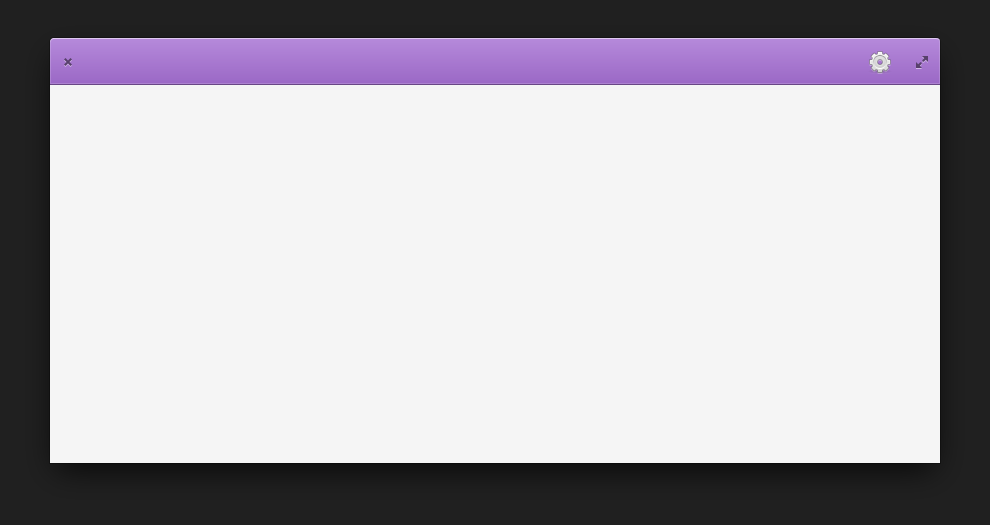
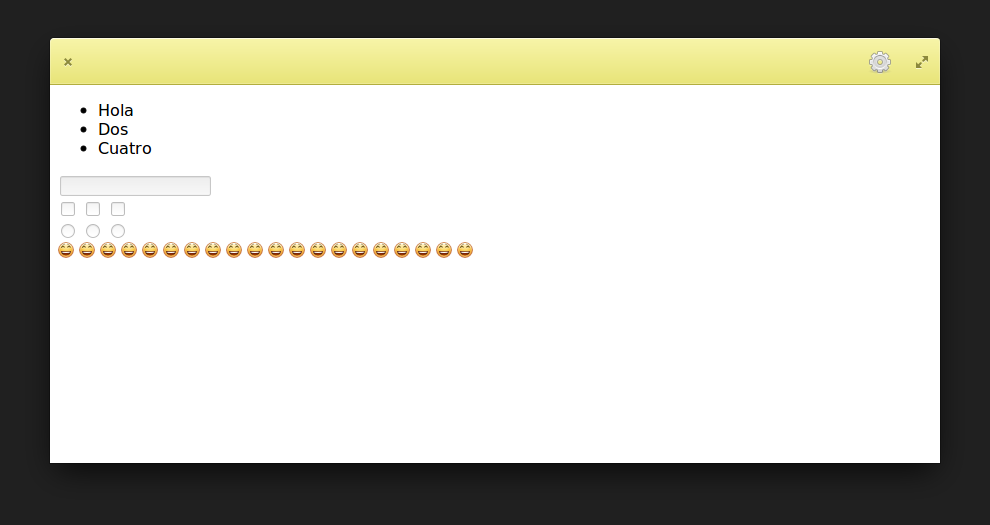
Web view

Changed region(s): [[0.0303, 0.061, 0.9697, 0.3048], [0.0606, 0.4267, 0.4848, 0.4876], [0.0606, 0.3657, 0.1212, 0.3962]]

diff --git a/src/choral/assets/directory.html b/src/choral/assets/directory.html
@@ -1,0 +1,57 @@
+<!DOCTYPE html>
+<html>
+<head>
+  <meta charset="utf-8">
+  <meta http-equiv="X-UA-Compatible" content="IE=edge">
+  <title></title>
+  <link rel="stylesheet" href="choral:///css/directory.css">
+</head>
+<body>
+<ul>
+  <li>Hola</li>
+  <li>Dos</li>
+  <li>Cuatro</li>
+</ul>
+
+<input type="text" name="" value="" placeholder="">
+
+<br>
+
+<input type="checkbox" name="" value="" placeholder="">
+<input type="checkbox" name="" value="" placeholder="">
+<input type="checkbox" name="" value="" placeholder="">
+
+<br>
+
+<input type="radio" name="" value="" placeholder="">
+<input type="radio" name="" value="" placeholder="">
+<input type="radio" name="" value="" placeholder="">
+
+<br>
+
+<img src="choral:///img/smile.png" alt="">
+<img src="choral:///img/smile.png" alt="">
+<img src="choral:///img/smile.png" alt="">
+<img src="choral:///img/smile.png" alt="">
+<img src="choral:///img/smile.png" alt="">
+
+<img src="choral:///img/smile.png" alt="">
+<img src="choral:///img/smile.png" alt="">
+<img src="choral:///img/smile.png" alt="">
+<img src="choral:///img/smile.png" alt="">
+<img src="choral:///img/smile.png" alt="">
+
+<img src="choral:///img/smile.png" alt="">
+<img src="choral:///img/smile.png" alt="">
+<img src="choral:///img/smile.png" alt="">
+<img src="choral:///img/smile.png" alt="">
+<img src="choral:///img/smile.png" alt="">
+
+<img src="choral:///img/smile.png" alt="">
+<img src="choral:///img/smile.png" alt="">
+<img src="choral:///img/smile.png" alt="">
+<img src="choral:///img/smile.png" alt="">
+<img src="choral:///img/smile.png" alt="">
+
+</body>
+</html>

diff --git a/src/choral/assets/css/gtk-ui.css b/src/choral/assets/css/gtk-ui.css
@@ -67,4 +67,3 @@
 .headerbar {
     color: shade (#000, 1.60);
 }
-

diff --git a/src/choral/base.py b/src/choral/base.py
@@ -1,8 +1,6 @@
 import os
 from gi.repository import Gtk, Gdk
 
-from .utils import build_css_provider
-
 
 # TODO: Move to a environnment object
 ROOT_PATH = os.path.dirname(os.path.abspath(__file__))
@@ -18,10 +16,10 @@ class BaseWindow(Gtk.Window):
     _gravity = Gdk.Gravity.SOUTH_EAST
     _type_hint = Gdk.WindowTypeHint.NORMAL
 
-    def __init__(self, app, screen):
+    def __init__(self, app):
         super().__init__()
         self.app = app
-        self.set_css_style(screen)
+        self.set_application(app)
         self.set_name(self.name)
         self.set_title(self.title)
         self.set_resizable(self._resizable)
@@ -29,6 +27,14 @@ class BaseWindow(Gtk.Window):
         self.set_gravity(self._gravity)
         self.set_position(self._position)
         self.set_type_hint(self._type_hint)
+
+        if self._stylesheet:
+            with open(os.path.join(ROOT_PATH, self._stylesheet), 'r') as f:
+                stylesheet = f.read().encode('UTF-8')
+
+            self.set_theming(stylesheet)
+
+        self.connect("destroy", Gtk.main_quit)
 
     @property
     def title(self):
@@ -38,15 +44,17 @@ class BaseWindow(Gtk.Window):
     def name(self):
         return 'window' if not self._name else self._name
 
-    @property
-    def stylesheet(self):
-        if self._stylesheet:
-            return os.path.join(ROOT_PATH, self._stylesheet)
-        return None
+    def set_theming(self, stylesheet: str, class_name: str=None):
 
-    def set_css_style(self, screen):
-        css_provider = build_css_provider(self.stylesheet)
+        screen = Gdk.Screen.get_default()
         context = self.get_style_context()
+
+        if class_name:
+            context.add_class(class_name)
+
+        css_provider = Gtk.CssProvider()
+        css_provider.load_from_data(stylesheet)
+
         context.add_provider_for_screen(
             screen, css_provider,
             Gtk.STYLE_PROVIDER_PRIORITY_APPLICATION)

diff --git a/src/choral/widgets/toolbar.py b/src/choral/widgets/toolbar.py
@@ -1,5 +1,6 @@
 from gi.repository import Gtk
 from choral.utils import gtk_image_from_icon_name
+from .dialogs import SettingsDialog
 
 
 class Toolbar(Gtk.HeaderBar):
@@ -7,6 +8,7 @@ class Toolbar(Gtk.HeaderBar):
         super().__init__()
         self.app = app
         self.set_show_close_button(True)
+        self.parent = window
         self.props.title = window._title
 
         headerbar_box = Gtk.Box(Gtk.Orientation.HORIZONTAL, 10)
@@ -16,17 +18,21 @@ class Toolbar(Gtk.HeaderBar):
         menu = Gtk.Menu()
 
         add_feed_item = Gtk.MenuItem(label="Add Podcast Feed")
+        add_feed_item.connect("activate", self.add_feed_selected)
         menu.add(add_feed_item)
 
         import_item = Gtk.MenuItem(label="Import Subcriptions...")
+        import_item.connect("activate", self.import_selected)
         menu.add(import_item)
 
         export_item = Gtk.MenuItem(label="Export Subscriptions...")
+        export_item.connect("activate", self.export_selected)
         menu.add(export_item)
 
         menu.add(Gtk.SeparatorMenuItem())
 
         preferences_item = Gtk.MenuItem(label="Preferences")
+        preferences_item.connect("activate", self.preferences_selected)
         menu.add(preferences_item)
 
         menu.show_all()
@@ -37,3 +43,16 @@ class Toolbar(Gtk.HeaderBar):
 
         self.pack_end(app_menu)
         self.set_custom_title(headerbar_box)
+
+    def add_feed_selected(self):
+        pass
+
+    def import_selected(self):
+        pass
+
+    def export_selected(self):
+        pass
+
+    def preferences_selected(self, widget):
+        settings_dialog = SettingsDialog(self.parent)
+        settings_dialog.show_all()

diff --git a/src/choral/widgets/webview.py b/src/choral/widgets/webview.py
@@ -1,0 +1,38 @@
+import os
+from gi.repository import Gio, WebKit2
+
+
+ROOT_DIR = os.path.dirname(os.path.dirname(os.path.abspath(__file__)))
+
+
+class WebView(WebKit2.WebView):
+    def __init__(self, app):
+        self.app = app
+        WebKit2.WebView.__init__(self)
+
+        context = WebKit2.WebContext.get_default()
+        context.register_uri_scheme('choral', self.request_callback)
+
+        manager = context.get_security_manager()
+        manager.register_uri_scheme_as_cors_enabled('choral')
+
+        settings = self.get_settings()
+        settings.set_property("enable-developer-extras", True)
+        settings.set_property("enable-accelerated-2d-canvas", True)
+        settings.set_property("enable-smooth-scrolling", True)
+        settings.set_property("javascript-can-access-clipboard", True)
+
+        settings.set_enable_fullscreen(False)
+        settings.set_enable_plugins(False),
+        settings.set_enable_page_cache(False)
+        settings.set_enable_dns_prefetching(True)
+        self.show()
+
+    def request_callback(self, request):
+        path = os.path.join(ROOT_DIR, 'assets/', request.get_path().lstrip('/'))
+        mimetype = self.app.get_mimetype(path)
+
+        if os.path.exists(path):
+            request.finish(Gio.File.new_for_path(path).read(None), -1, mimetype)
+        else:
+            raise Exception('App resource path not found: {0}'.format(path))

diff --git a/src/choral/widgets/dialogs.py b/src/choral/widgets/dialogs.py
@@ -1,0 +1,35 @@
+from gi.repository import Gtk
+
+
+class SettingsDialog(Gtk.Dialog):
+    def __init__(self, parent):
+        super().__init__()
+        headerbar = Gtk.HeaderBar(title='Preferences')
+        headerbar.set_has_subtitle(False)
+        headerbar.set_show_close_button(False)
+        headerbar.get_style_context().remove_class("header-bar")
+
+        self.set_titlebar(headerbar)
+        self.set_title('Preferences')
+        self.set_modal(True)
+        self.set_transient_for(parent)
+
+        content = self.get_content_area()
+        content.homogeneous = False
+        content.margin_left = 12
+        content.margin_right = 12
+
+        close_button = Gtk.Button(label="Close")
+        close_button.connect("clicked", self.close_dialog)
+        close_button.margin_bottom = 12
+        close_button.margin_right = 5
+
+        button_box = Gtk.ButtonBox()
+        button_box.set_layout(Gtk.ButtonBoxStyle.END)
+        button_box.pack_end(close_button, False, False, 12)
+
+        content.add(button_box)
+        self.show_all()
+
+    def close_dialog(self, widget):
+        self.destroy()

diff --git a/src/choral/windows.py b/src/choral/windows.py
@@ -1,14 +1,15 @@
 from .base import BaseWindow
 from .widgets.toolbar import Toolbar
+from .widgets.webview import WebView
 
 
 class MainWindow(BaseWindow):
     _title = 'Choral'
     _name = 'choral'
-    _stylesheet = 'assets/styles.css'
+    _stylesheet = 'assets/css/gtk-ui.css'
 
-    def __init__(self, app, screen):
-        super().__init__(app, screen)
+    def __init__(self, app):
+        super().__init__(app)
 
         self.set_size_request(
             width=self.app.settings.window_width,
@@ -17,3 +18,11 @@ class MainWindow(BaseWindow):
         self.toolbar = Toolbar(self, app)
         self.toolbar.get_style_context().add_class(".headerbar")
         self.set_titlebar(self.toolbar)
+
+        webview = WebView(app)
+        webview.load_uri('choral:///directory.html')
+        webview.show()
+        webview.show()
+
+        self.add(webview)
+        self.show()

diff --git a/src/choral/application.py b/src/choral/application.py
@@ -1,15 +1,23 @@
-from gi.repository import Gtk, Gdk
+import magic
+from gi.repository import Gtk
 
 from .windows import MainWindow
 from .settings import ChoralSetttings
 
+mime = magic.open(magic.MAGIC_MIME)
+mime.load()
+
 
 class Application(Gtk.Application):
     def do_activate(self):
-        screen = Gdk.Screen.get_default()
         self.settings = ChoralSetttings()
         self.theme = Gtk.IconTheme.get_default()
 
-        self.window = MainWindow(self, screen)
-        self.add_window(self.window)
+        self.window = MainWindow(self)
+        self.window.connect('destroy', Gtk.main_quit)
         self.window.show_all()
+
+        self.add_window(self.window)
+
+    def get_mimetype(self, path):
+        return mime.file(path)

diff --git a/src/choral/utils.py b/src/choral/utils.py
@@ -1,13 +1,7 @@
+import os
 from gi.repository import Gtk
 
-
-def build_css_provider(path):
-    provider = Gtk.CssProvider()
-
-    with open(path, 'r') as f:
-        provider.load_from_data(f.read().encode('UTF-8'))
-
-    return provider
+ROOT_DIR = os.path.dirname(os.path.abspath(__file__))
 
 
 def gtk_image_from_theme(theme, icon_name, size=Gtk.IconSize.LARGE_TOOLBAR):

diff --git a/README.md b/README.md
@@ -4,7 +4,6 @@ A fork/rewrite of Nathan Dyer's vocal app made in Python/Gtk3
 
 Using Python 3.4.3
 
-
 # Running in develop
 
     git clone git@github.com:mariocesar/choral-app.git
@@ -27,7 +26,7 @@ Using Python 3.4.3
 
 You may need:
 
-    sudo apt-get install libgtk-3-0 python3-gi
+    sudo apt-get install python3-gi gir1.2-gtk-3.0 gir1.2-webkit2-3.0
 
 ## Missing accessibility bus:
 
